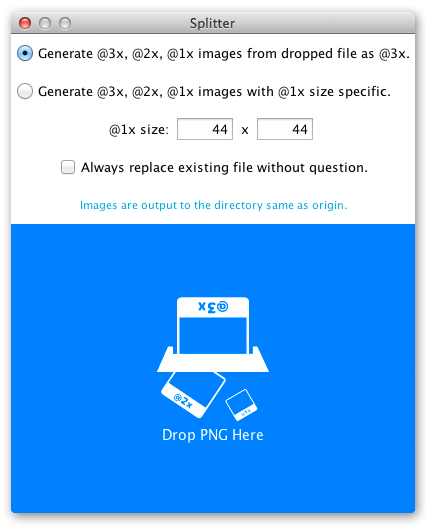
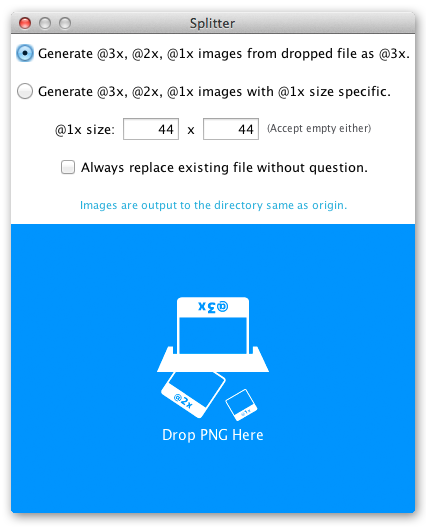
Accept empty width or height on image splitter.

diff --git a/ios-image-util/src/org/gootara/ios/image/util/ui/SplitterFrame.java b/ios-image-util/src/org/gootara/ios/image/util/ui/SplitterFrame.java
@@ -105,6 +105,10 @@ public class SplitterFrame extends JDialog {
 		sizePanel.add(this.width1x = new JTextField("44", 4));
 		sizePanel.add(new JLabel(owner.getResource("splitter.label.x", "x")));
 		sizePanel.add(this.height1x = new JTextField("44", 4));
+		JLabel both = new JLabel(owner.getResource("splitter.label.both", "(Accept empty either)"));
+		both.setFont(new Font(Font.SANS_SERIF, Font.PLAIN, 10));
+		both.setForeground(new Color(0x4E4E53));
+		sizePanel.add(both);
 		this.width1x.setHorizontalAlignment(JTextField.RIGHT);
 		this.height1x.setHorizontalAlignment(JTextField.RIGHT);
 		settings.add(sizePanel);
@@ -230,9 +234,19 @@ public class SplitterFrame extends JDialog {
 		}
 		parent.verbose(f);
 
-		Dimension size = new Dimension(Integer.parseInt(this.width1x.getText()) * scale, Integer.parseInt(this.height1x.getText()) * scale);
+		Dimension size = null;
 		if (this.as3x.isSelected()) {
 			size = new Dimension(src.getWidth() / 3 * scale, src.getHeight() / 3 * scale);
+		} else {
+			if (this.width1x.getText().trim().isEmpty() && this.height1x.getText().trim().isEmpty()) {
+				throw new Exception(parent.getResource("splitter.error.empty.both", "Either the width or height is required."));
+			}
+			float width = this.width1x.getText().trim().isEmpty() ? 0 : Float.parseFloat(this.width1x.getText());
+			float height = this.height1x.getText().trim().isEmpty() ? 0 : Float.parseFloat(this.height1x.getText());
+			float p = width == 0 ? height / ((float)src.getHeight() / 3.0f) : width / ((float)src.getWidth() / 3.0f);
+			width = width == 0 ? ((float)src.getWidth() / 3.0f) * p : width;
+			height = height == 0 ? ((float)src.getHeight() / 3.0f) * p : height;
+			size = new Dimension(Math.round(width) * scale, Math.round(height) * scale);
 		}
 
 		BufferedImage buf = new BufferedImage(size.width, size.height, BufferedImage.TYPE_INT_ARGB);
